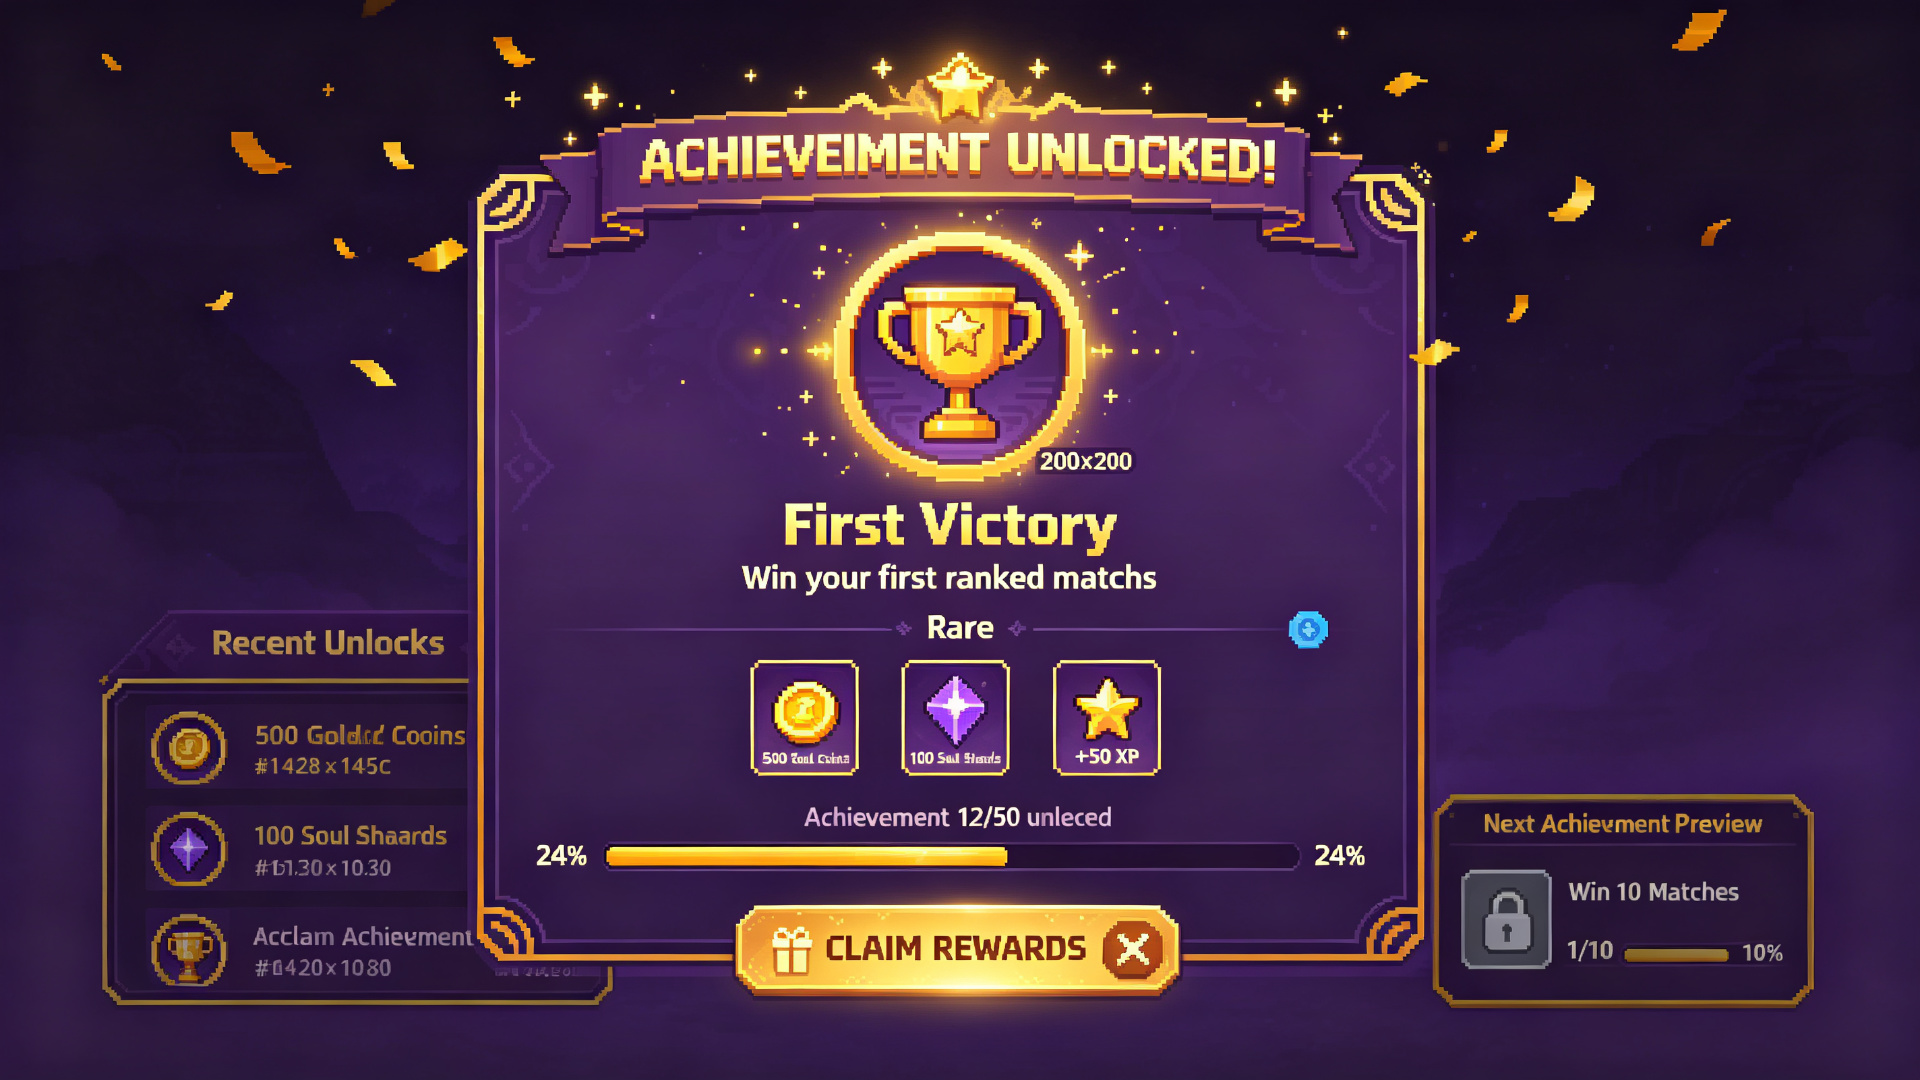
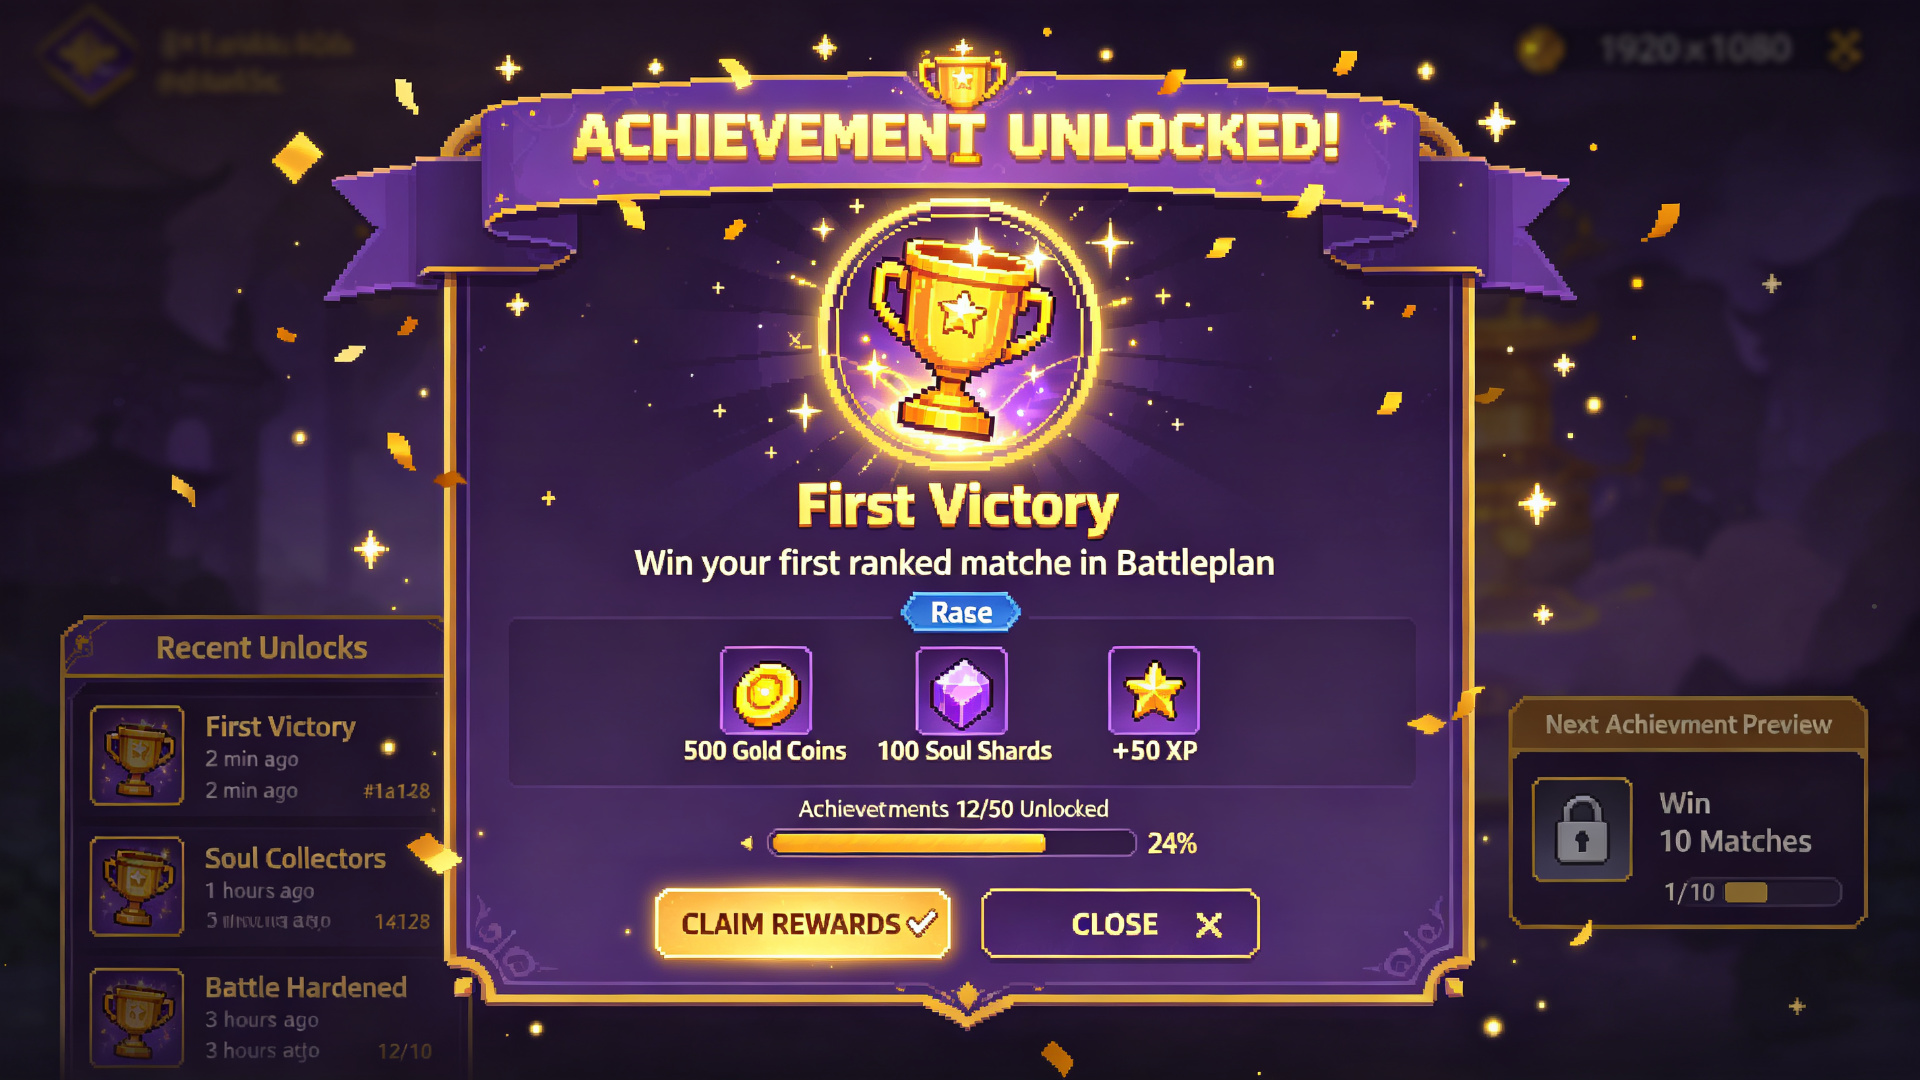
feat(art): 设计任务第137轮M2奖励弹窗UI组件产出P0 - 6项M2奖励弹窗UI组件全部完成（游戏内成就弹窗+等级提升弹窗+每日奖励领取+赛季结算+排行榜赛季+玩家名片），🎉新元素系统已达100元素正式停止新元素扩展！Steam商店页素材累计12项+过场动画CG 6项+M2战斗HUD UI组件6项+M2其他界面UI组件6项+M2主要界面细化UI 6项+M2战斗特效UI组件6项+M2社交UI组件6项+M2辅助界面UI组件6项+M2游戏系统UI组件6项+M2对战模式UI组件6项+M2运营系统UI组件6项+M2社交交互UI组件6项+M2设置系统UI组件6项已产出本轮继续方向2 M2实际

diff --git a/docs/game-design/DESIGN_DEVLOG.md b/docs/game-design/DESIGN_DEVLOG.md
@@ -11749,3 +11749,137 @@
 9. 战策攻击系统完整修复链4个bug叠加全部完成+BUG-030已关闭+BUG-033已修复后，关注战策更多用户体验优化
 10. GitHub 443端口间歇性不可用：commit保留本地，网络恢复时推送，不重试超过2次
 11. 注意image_gen工具限制：一次只能生成1张图片，避免使用rainbow/color等可能触发审核的关键词
+
+---
+
+## 第137轮 - 2026-09-09 - M2奖励/弹窗UI组件产出P0（6项）
+
+### 轮次概要
+- **轮次**: 第137轮
+- **日期**: 2026-09-09
+- **方向**: 方向2：M2实际需要的UI资源（P0）— 奖励/弹窗UI组件
+- **产出**: 6项M2奖励/弹窗UI组件
+- **新元素扩展**: 🎉 已达100元素，正式停止新元素扩展！
+- **M2 UI组件合计**: 72项（战斗HUD 6 + 其他界面 6 + 主要界面细化 6 + 战斗特效 6 + 社交 6 + 辅助界面 6 + 游戏系统 6 + 对战模式 6 + 运营系统 6 + 社交交互 6 + 设置/系统 6 + 奖励/弹窗 6）
+
+### 战策DEVLOG检查
+- **DEVLOG行数**: 7799行（与上一轮相同）
+- **最新章节**: "P0修复续：AI决策延迟导致单位在攻击范围内不攻击"
+- **攻击系统完整修复链（4个bug叠加）全部完成**: ✅
+  1. SoulUnit.move_to()清除attack_target → 添加p_clear_attack_target参数
+  2. EmberSoulAIController移动时清除attack_target → 保留attack_target
+  3. _update_cooldowns不递减attack_cooldown → 添加递减逻辑
+  4. AI决策延迟导致在范围内不攻击 → execute_decision优先级覆盖
+- **修复后验证**: 5秒内战斗结束，双方持续攻击直到一方被击败
+- **M2测试**: 2884 Passed, 0 Failed
+- **BUG-030已关闭**: ✅ 526个wav RIFF头和data chunk size全部修正，Godot导入0错误528步骤全通过
+- **BUG-033已修复**: ✅ 灵魂选择UI布局拥挤+main_menu假灵魂数据bug，已修复(commit 370134c+ec18a48)，已关闭31个，活跃2个
+- **历史[设计需求]已基本满足**: ✅ 像素字体参考、UI皮肤图集、灵魂单位精灵图、主菜单背景图、技能图标、粒子纹理均已产出；唯一未完成的是实际像素字体文件（.ttf/.otf），待战策决定
+- **无新[设计需求]**: ✅
+
+### Git状态
+- **上一轮commit**: e6adae9（第136轮M2设置/系统UI组件，7文件）
+- **push状态**: ⚠ push失败（Connection was reset），GitHub网络间歇性不可用，commit保留本地
+- **本轮开始时**: 本地领先远程1个commit（e6adae9），工作树干净
+- **art文件数**: 608 → 613（+6项M2奖励/弹窗UI组件）
+- **audio文件数**: 837（无变化，本轮无wav产出）
+
+### 产出资源清单（6项M2奖励/弹窗UI组件，P0）
+
+#### 1. 游戏内成就弹窗UI (achievement_unlock_popup_ui.png)
+- **尺寸**: 1920x1080
+- **大小**: 633KB
+- **风格**: 2D像素风，深紫+金色
+- **内容**: 半透明暗色覆盖背景，中央大型成就解锁弹窗面板900x700（金色华丽边框+深紫背景）居中，顶部横幅ACHIEVEMENT UNLOCKED!大号金色像素字体发光效果+奖杯图标+金色五彩纸屑粒子落下，下方大成就图标220x220金色圆形框发光效果（像素风金色奖杯带星星和魔法光环），下方成就名First Victory+描述Win your first ranked match in Battleplan+稀有度标签Rare蓝色，下方成就奖励行3个奖励物品（500 Gold Coins金币图标+100 Soul Shards紫色灵魂碎片图标++50 XP星星图标），下方进度信息Achievements 12/50 Unlocked+金色进度条24%，下方2个大按钮（CLAIM REWARDS领取奖励金色发光+CLOSE关闭），右侧Next Achievement Preview面板（下一个成就图标灰色锁定+Win 10 Matches+进度1/10），左侧Recent Unlocks面板（3个最近成就图标+名字+时间），面板周围金色闪光和五彩纸屑
+
+#### 2. 等级提升弹窗UI (level_up_popup_ui.png)
+- **尺寸**: 1920x1080
+- **大小**: 808KB
+- **风格**: 2D像素风，深紫+金色
+- **内容**: 半透明暗色覆盖背景+金色光线，中央大型等级提升弹窗面板900x750（金色华丽边框+深紫背景）居中+强烈金色发光和闪光，顶部横幅LEVEL UP!超大号金色像素字体发光效果+星星图标+金色光线和粒子向外爆发，下方大等级数字显示LV. 25（巨大金色像素字体发光效果+动画闪光+金色圆形框带魔法符文），下方玩家头像140x140金色圆形框发光效果（像素风角色肖像蓝发神秘光环），下方玩家名Player123，下方XP进度条（大金色进度条XP 2500/3000 83%+上一级标记+下一级标记+Next Level: LV.26），下方Unlocked Rewards!标题，下方解锁奖励网格3x2=6个奖励槽（Skill Point +1星星图标+500 Gold Coins金币图标+New Skill Fire Storm火焰技能图标+Title Rising Star称号图标+Soul Shard +50紫色灵魂碎片图标+Stat Boost +5 ATK剑图标，每个带NEW!标签），下方属性提升面板（4列属性前后值ATK 120→125 +5、DEF 80→83 +3、HP 500→520 +20、MP 200→210 +10，每个带上箭头），下方2个大按钮（CONTINUE继续金色发光+VIEW DETAILS查看详情），右侧Skill Tree Preview面板（技能树图新解锁技能高亮金色），左侧Recent Level Ups面板（3个最近升级条目），金色光线、闪光和五彩纸屑从面板爆发
+
+#### 3. 每日奖励领取UI (daily_reward_claim_ui.png)
+- **尺寸**: 1920x1080
+- **大小**: 744KB
+- **风格**: 2D像素风，深紫+金色
+- **内容**: 半透明暗色覆盖背景，中央大型每日奖励面板1000x750（金色华丽边框+深紫背景）居中，顶部标题DAILY REWARDS大号金色像素字体发光效果+日历图标，下方奖励信息（Current Streak 7 Days火焰图标+This Month 23/30 Days+Next Milestone 14 Days+Month September 2026），下方7天每周奖励日历网格（7个天单元格一排，每个120x160带日期数字、奖励图标、奖励名和状态：Day1-6已完成绿色对勾+对应奖励，Day7 TODAY高亮金色发光边框+脉冲动画+Legendary Chest传说宝箱奖励+闪光效果+CLAIM按钮），下方每月奖励日历网格5x7=35天（每个天单元格60x60带日期数字，已完成金色对勾，错过灰色，今天高亮金色，里程碑日7/14/21/28特殊奖励图标），下方选中奖励详情面板（大奖励图标+奖励名Legendary Chest+稀有度Legendary橙色标签+描述+可能奖励预览3个物品图标带问号+CLAIM按钮金色发光），右侧Streak Rewards面板（4个里程碑奖励3天500金币已完成、7天稀有宝箱当前高亮、14天史诗灵魂皮肤、30天传说称号），左侧Login History面板（最近7天登录状态绿/红点），底部3个按钮（CLAIM TODAY领取今日金色发光+CLAIM MISSED补领错过+CLOSE关闭），面板周围金色闪光
+
+#### 4. 赛季结算UI (season_end_rewards_ui.png)
+- **尺寸**: 1920x1080
+- **大小**: 851KB
+- **风格**: 2D像素风，深紫+金色
+- **内容**: 半透明暗色覆盖背景+金色庆祝粒子，中央大型赛季结算面板1100x800（金色华丽边框+深紫背景）居中，顶部横幅SEASON 1 END大号金色像素字体发光效果+奖杯图标+赛季名Soul Awakening+日期Sep 1 - Sep 30，下方最终段位显示（大段位徽章200x200金色圆形框发光效果-GOLD III金色像素字体+段位图标3颗金星+动画闪光和魔法光环），下方玩家统计摘要面板（4列统计Ranked Matches 156、Wins 98、Win Rate 62.8%、Best Streak 12，每个带图标和值），下方Season Rewards!标题，下方赛季奖励网格4x2=8个奖励槽（5000 Gold Coins普通、500 Soul Shards优秀、Epic Soul Skin Phoenix Spirit史诗紫色、Legendary Title Season 1 Champion传说橙色、3 Skill Points稀有、Rare Chest x5稀有、Banner Frame Golden Dawn稀有、Emote Pack Celebration优秀，每个带金色边框和发光效果+CLAIM ALL按钮），下方段位进度面板（Next Season Placement+Your MMR: 2450+Placement Matches: 10+Start Next Season按钮金色发光），右侧Leaderboard Preview面板（TOP 5 PLAYERS+5个玩家条目带排名数字、头像、名字、段位、MMR，第5名YOU Player123 Gold III 2450高亮），左侧Season Stats面板（Total Damage 125,000+Total Healing 32,000+Most Used Soul Fire Spirit+Favorite Map Arena of Souls+Best KDA 5/1/2），底部3个按钮（CLAIM ALL REWARDS领取全部金色发光+VIEW LEADERBOARD查看排行榜+CONTINUE继续），金色五彩纸屑、闪光和庆祝粒子围绕面板
+
+#### 5. 排行榜赛季UI (leaderboard_season_ui.png)
+- **尺寸**: 1920x1080
+- **大小**: 824KB
+- **风格**: 2D像素风，深紫+金色
+- **内容**: 中央大型排行榜面板（金色华丽边框+深紫背景），顶部标题LEADERBOARD大号金色像素字体发光效果+奖杯图标，下方排行榜信息（Season 1 Soul Awakening+Season End in 3 Days+Your Rank #156+Your MMR 2450+Update Time 5 min ago），下方4个分类标签（RANKED排名标签高亮选中金色+SOUL ARENA灵魂竞技场+FRIENDS好友+GLOBAL全球），下方前3名领奖台展示（第1名中心抬高+大金冠图标+玩家头像100x100金色圆形框+名字PlayerLegend+段位Gold I+MMR 2890+CHAMPION标签，第2名左侧+银冠+头像+名字PlayerMaster+段位Gold II+MMR 2750，第3名右侧+铜冠+头像+名字PlayerPro+段位Gold III+MMR 2680），下方排行榜列表10个玩家条目（每行带排名数字、玩家头像48x48、玩家名、段位徽章、MMR值、胜率，#156 YOU Player123 Gold III 2450 62.8%高亮金色边框+YOU标签），下方你的段位详情面板（Your Rank #156+Your MMR 2450+Rank Progress to Gold II 2450/2500金色进度条80%+50 MMR to next rank+Win Rate 62.8%+Best Rank Gold I+Season High 2480），右侧Rank Tiers面板（7个段位带图标和MMR范围Bronze 0-1000、Silver 1000-1500、Gold 1500-2000当前高亮、Platinum 2000-2500、Diamond 2500-3000、Master 3000-3500、Grandmaster 3500+），左侧Season Rewards面板（段位奖励预览Top 100传说称号、Top 500史诗皮肤、Top 1000稀有宝箱、All Participants参与奖励），底部3个按钮（REFRESH刷新+VIEW REPLAYS查看回放+BACK返回）
+
+#### 6. 玩家名片UI (player_profile_card_ui.png)
+- **尺寸**: 1920x1080
+- **大小**: 764KB
+- **风格**: 2D像素风，深紫+金色
+- **内容**: 半透明暗色覆盖背景，中央大型玩家名片1000x800（金色华丽边框+深紫背景）居中，顶部横幅（玩家等级LV. 25金色像素字体+经验条2500/3000 83%+玩家称号Rising Star金色+称号图标），下方大玩家头像180x180金色圆形框发光效果+魔法光环（像素风角色肖像蓝发神秘能量），下方玩家名Player123超大号金色像素字体，下方玩家信息行（段位Gold III段位徽章+MMR 2450+Region Asia+Join Date 2026-08-15），下方统计面板金色边框（6列统计Total Matches 156、Wins 98、Win Rate 62.8%、Best Streak 12、Total Damage 125,000、Total Healing 32,000，每个带图标和值），下方FAVORITE SOUL UNITS标题，下方最爱灵魂单位展示（3个灵魂单位卡片一排，每个带单位图标、单位名、等级、熟练度百分比Fire Spirit LV.15 Mastery 85%、Water Spirit LV.12 Mastery 72%、Earth Spirit LV.10 Mastery 60%，每个卡片金色边框+元素颜色强调），下方ACHIEVEMENTS标题，下方成就展示（6个成就图标一排+名字First Victory、Soul Collector、Battle Hardened、Perfect Match、Team Player、Speed Demon，已完成成就金色发光，锁定成就灰色带锁图标），下方RECENT MATCHES标题，下方最近比赛列表（3个比赛条目带比赛类型、结果Win/Loss、KDA、时长、日期，胜利绿色边框，失败红色边框），右侧玩家名片自定义面板（CUSTOMIZE标题+头像框选择器3个框Default Gold/Epic Purple/Legendary Orange+横幅选择器3个+称号选择器+名片背景选择器+SAVE按钮），左侧社交面板（SOCIAL标题+Friends Online 12/45+Guild Soul Reapers+Followers 1,234+Following 56+ADD FRIEND按钮+MESSAGE按钮+REPORT按钮），底部3个按钮（EDIT PROFILE编辑名片铅笔图标+SHARE PROFILE分享名片分享图标+CLOSE关闭），名片周围金色闪光
+
+### 风格质量检查
+- **2D像素风**: ✅ 全部6项均为2D像素风格，清晰像素块边缘
+- **深紫+金色调**: ✅ 背景深紫#1a1428，金色边框#d4a85c，高亮#f0c878
+- **禁止3D等距**: ✅ 无3D等距视角，无3D建模渲染
+- **卡片式UI布局**: ✅ 全部采用卡片式面板布局，金色边框装饰
+- **数据可视化**: ✅ 进度条、段位徽章、统计图标、奖励图标等可视化表现
+- **奇幻魔法主题**: ✅ 魔法光环、符文、神秘元素
+- **ART_STYLE_GUIDE.md合规**: ✅ 符合第十节质量检查清单
+
+### 累计资源（第137轮后）
+- **音效**: 837个（management仓库assets/audio/）
+- **P0音效**: 17/17全部完成 ✅
+- **P1音效**: 24/24全部完成 ✅ 🎉
+- **核心音效合计**: 41个全部完成 ✅ 🎉
+- **P1背景音乐**: 7/7全部完成 ✅ 🎉
+- **P2音效**: 300个（6环境+6社交+288新元素技能）
+- **概念图**: 613张（management仓库art目录，本轮新增6项M2奖励/弹窗UI组件）
+- **M3内容扩展第一批~第四十八批**: 各14项全部完成 ✅
+- **M3内容扩展合计**: 672项（96新灵魂单位+96新地图+288技能音效+6社交UI图集+3社交高保真UI+1社交设计文档）
+- **新元素系统**: 100元素 🎉 已达到目标，正式停止新元素扩展！
+- **Steam商店页素材**: 12项（第123轮6项+第124轮6项）
+- **过场动画/启动画面/CG**: 6项（第125轮6项）
+- **M2战斗HUD UI组件**: 6项（第126轮6项）
+- **M2其他界面UI组件**: 6项（第127轮6项）
+- **M2主要界面细化UI**: 6项（第128轮6项）
+- **M2战斗特效UI组件**: 6项（第129轮6项）
+- **M2社交UI组件**: 6项（第130轮6项）
+- **M2辅助界面UI组件**: 6项（第131轮6项）
+- **M2游戏系统UI组件**: 6项（第132轮6项）
+- **M2对战模式UI组件**: 6项（第133轮6项）
+- **M2运营系统UI组件**: 6项（第134轮6项）
+- **M2社交交互UI组件**: 6项（第135轮6项）
+- **M2设置/系统UI组件**: 6项（第136轮6项）
+- **M2奖励/弹窗UI组件**: 6项（第137轮6项，本轮）
+- **M2 UI组件合计**: **72项**（战斗HUD 6 + 其他界面 6 + 主要界面细化 6 + 战斗特效 6 + 社交 6 + 辅助界面 6 + 游戏系统 6 + 对战模式 6 + 运营系统 6 + 社交交互 6 + 设置/系统 6 + 奖励/弹窗 6）
+- **设计文档**: 10份
+
+### WAV修复
+- **本轮无wav文件产出**: ✅ 无需运行WAV修复脚本
+- **WAV修复脚本**: D:\Sojourn\management\scripts\fix_wav_sizes.ps1（已连续31轮主动运行成功，本轮无wav跳过）
+
+### Git提交与推送
+- **上一轮commit**: e6adae9（第136轮M2设置/系统UI组件，7文件）
+- **push状态**: ⚠ push失败（Connection was reset），GitHub网络间歇性不可用，commit保留本地
+- **本轮开始时**: 本地领先远程1个commit（e6adae9），工作树干净
+- **本轮push尝试**: ⚠ 失败（Connection was reset），GitHub网络间歇性不可用
+- **GitHub 443端口**: 间歇性不可用，commit保留本地，网络恢复时推送，不重试超过2次
+
+### 下一轮计划
+1. 🎉 新元素系统已达到100个元素，正式停止新元素扩展！
+2. 继续方向2：M2实际需要的UI资源（P0）：更多M2界面UI组件（游戏内商城弹窗UI/物品详情弹窗UI/技能详情弹窗UI/段位提升弹窗UI/赛季通行证奖励弹窗UI/新手引导步骤弹窗UI）
+3. 方向4：现有资源优化（P2）：对已有UI资源进行细化、补全缺失帧、统一风格
+4. 继续方向1：Steam商店页素材（P1）：Steam商店页描述文案优化、更多游戏截图、成就图标补充
+5. 继续方向3：过场动画/启动画面/CG（P1）：更多过场动画概念图、战斗开始CG、平局CG
+6. 继续查看战策DEVLOG，了解[设计需求]和UI资源集成进展
+7. ⭐每轮生成wav后必须运行WAV size修复脚本
+8. 持续配合战策视觉提升P0/P1/P2，确保所有资源严格遵循ART_STYLE_GUIDE.md规范
+9. 战策攻击系统完整修复链4个bug叠加全部完成+BUG-030已关闭+BUG-033已修复后，关注战策更多用户体验优化
+10. GitHub 443端口间歇性不可用：commit保留本地，网络恢复时推送，不重试超过2次
+11. 注意image_gen工具限制：一次只能生成1张图片，避免使用"rainbow/color"等可能触发审核的关键词
+12. 网络恢复时推送本地commit（e6adae9 + 本轮commit）
